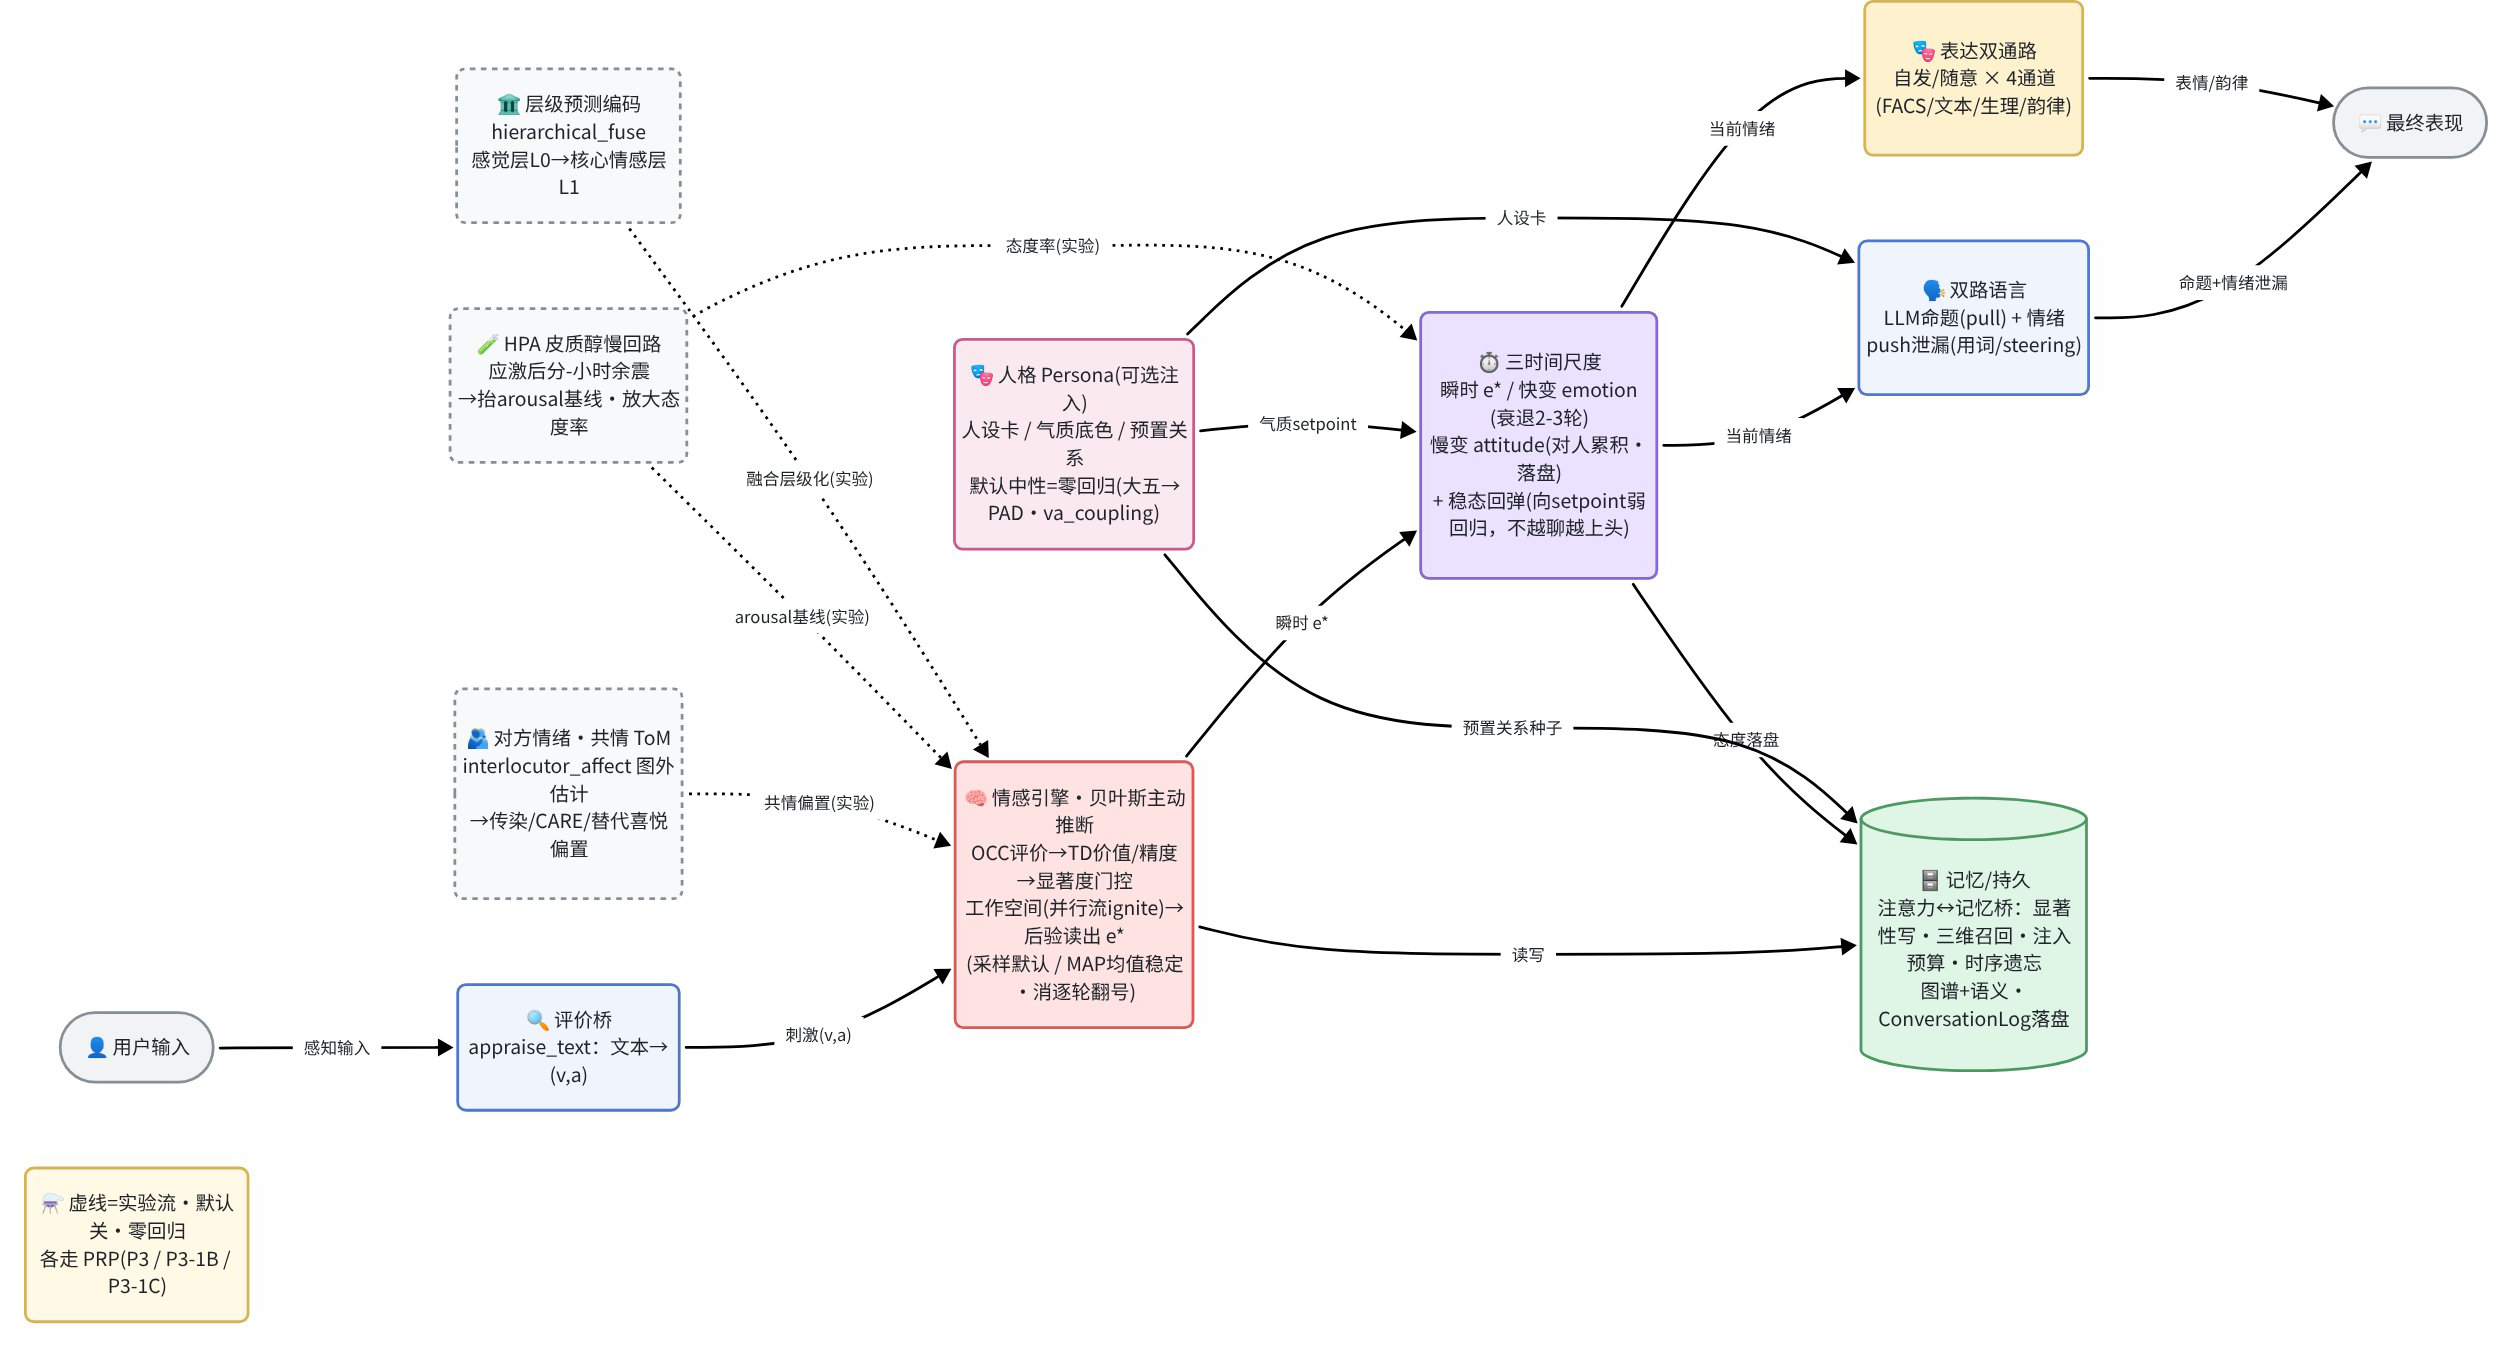
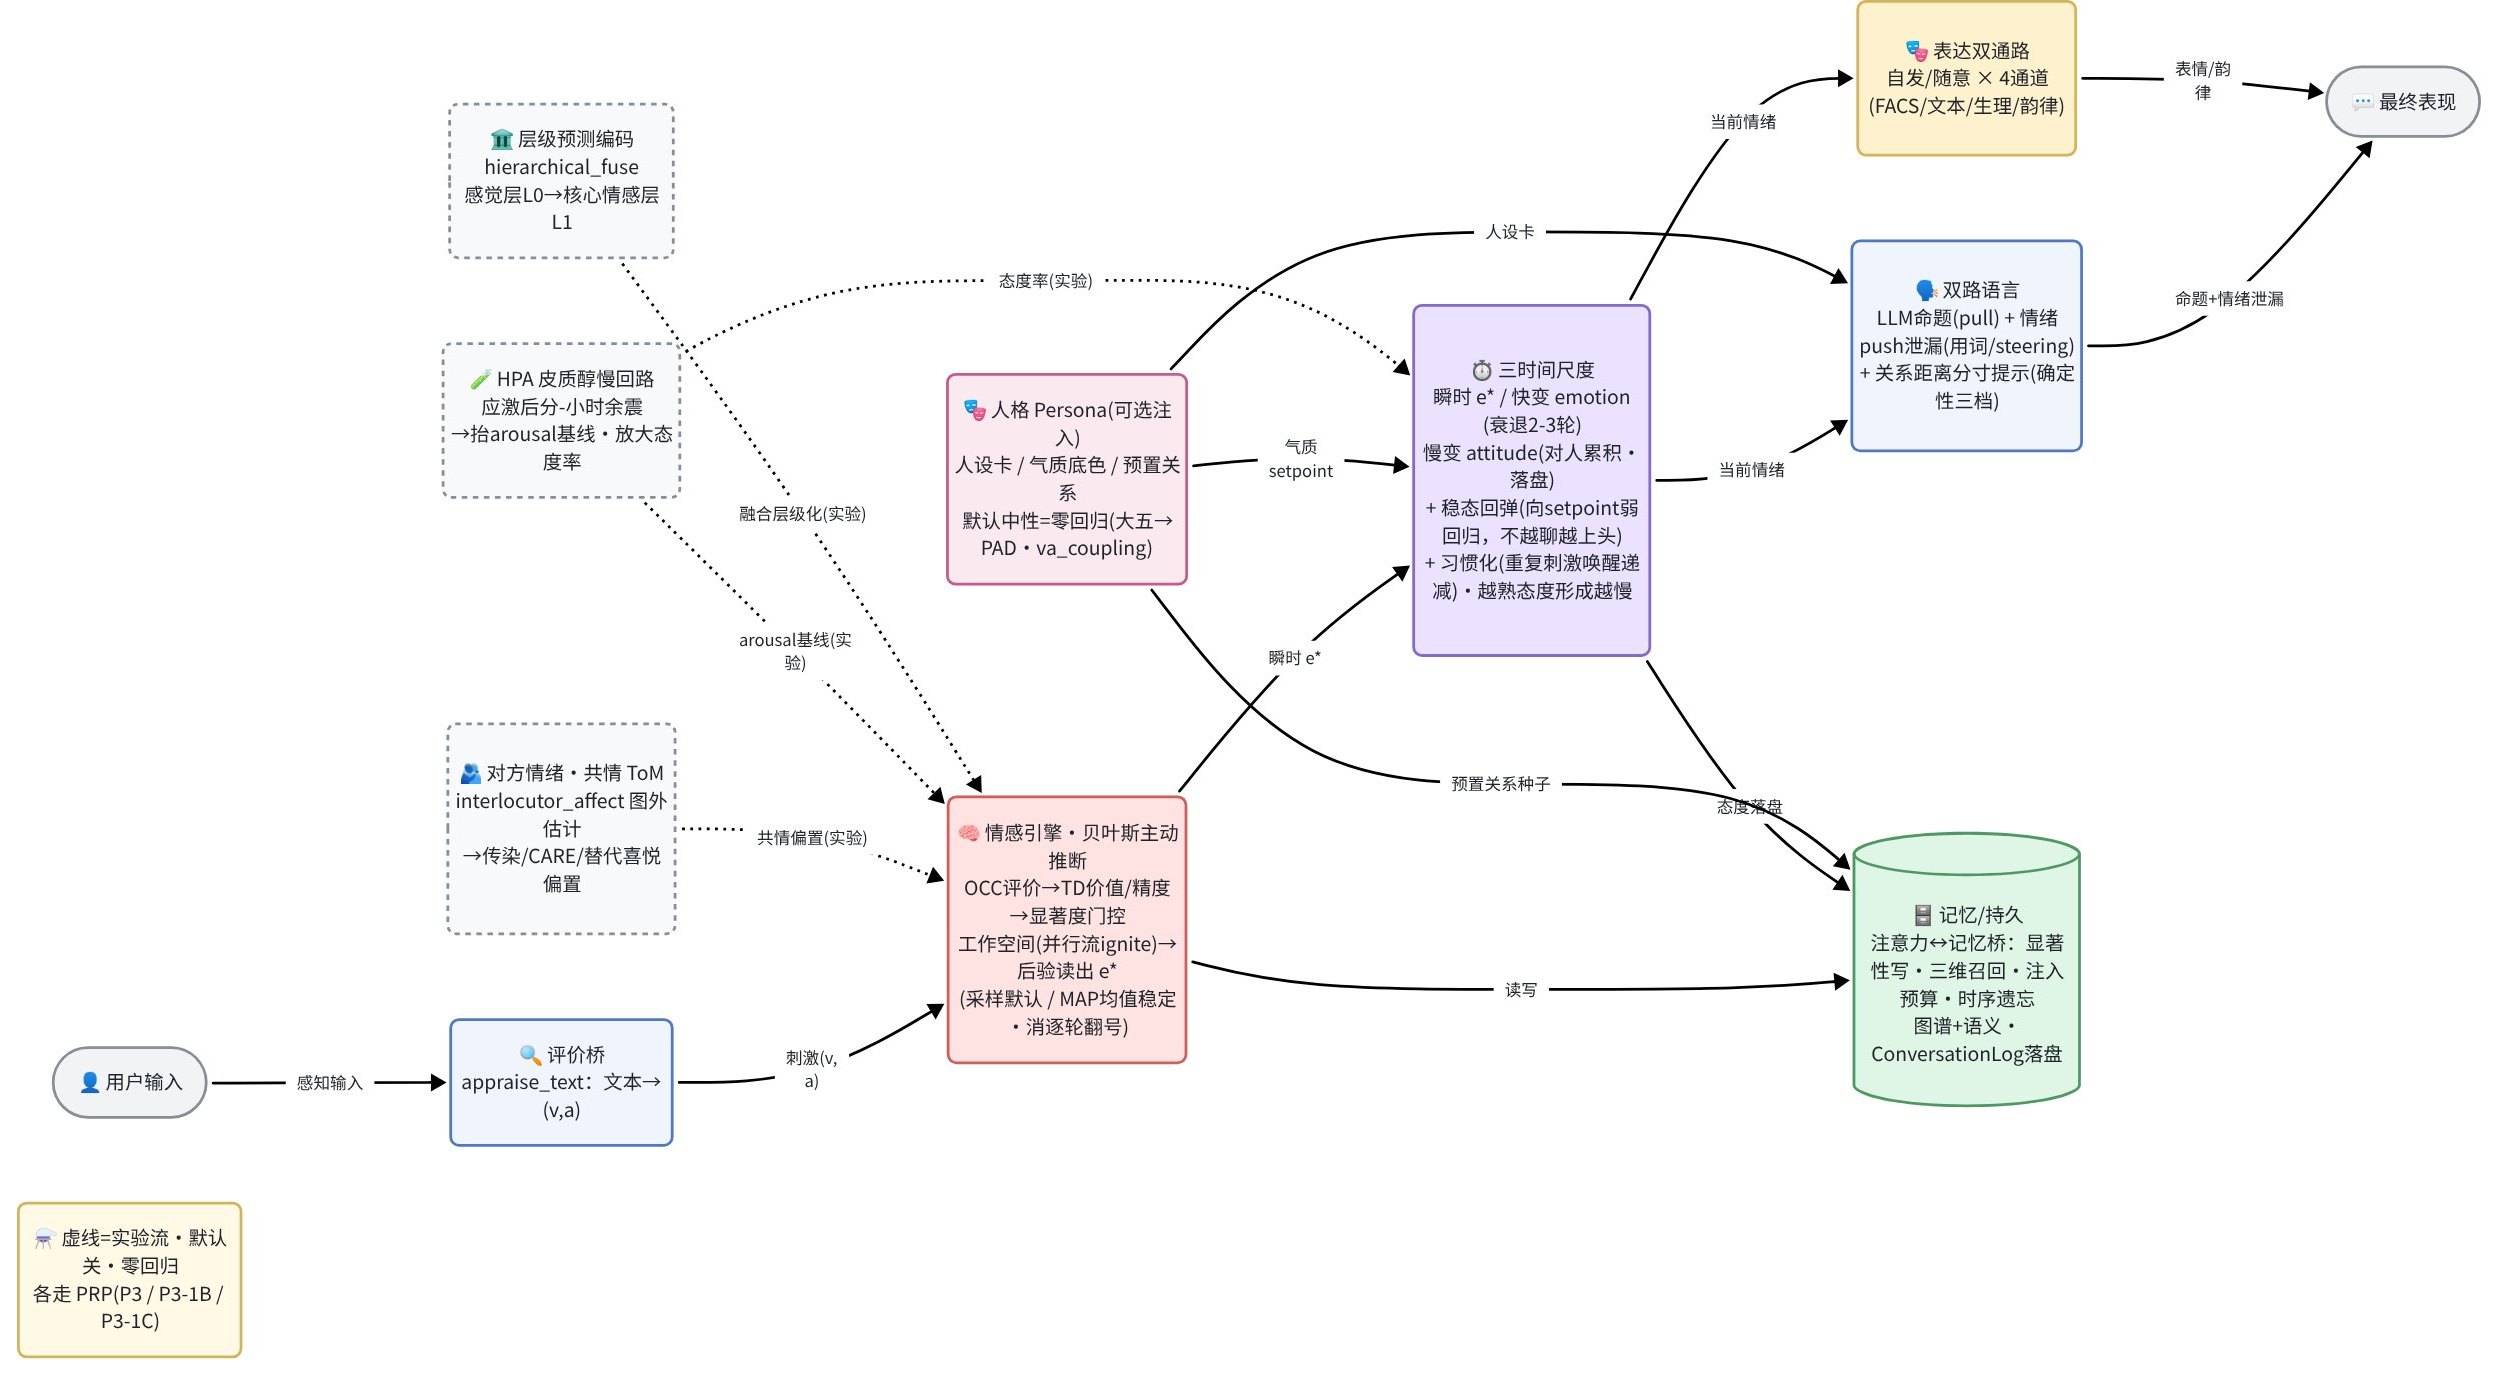
docs(readme+figures): 对外文档全面同步——README 深核 + .env.example 回归注释态 + 架构图集 4→8 张
- .env.example：研究级组(精度/Panksepp/HPA/ToM/HPC 28 变量)回归注释态=默认关零回归，数字人/记忆组保留推荐赋值；补 ZERO_LOG_LEVEL
- README 配置节：读法两类化；「默认」列纠偏(OPENAI_MODEL 必填无默认/EMBED_MODEL 真默认 3-small/GRAPHITI_MODEL 走库默认)；补 --chat 例外块+⑥日志组+verify_graphiti_local；postgres 标注暂未接线；notes/·PRP 对外死链改本地维护标注
- 结构树：补 DATASETS.md/demo_modes/setup_conversation_log/composite·emobank_st/docs 两组图
- 旧图纠偏重渲染：persona 大五→PAD 已落地+va_coupling；memory 情景库遗忘=写入 dedup+容量上限(时序失效仅 disposition)；runtime 补记忆·态度反哺双边+持久标签去 mood；framework 补习惯化·分寸
- 新图 4 张：--chat 数据落点地图/三层架构/工作空间点燃/三时间尺度冲击-响应曲线(tools/plot_timescales.py 用 affect_math 真方程 matplotlib 生成)
- docs/README：v2 表扩至 8 图+画板异步渲染坑警示

diff --git a/tools/plot_timescales.py b/tools/plot_timescales.py
@@ -1,0 +1,100 @@
+"""生成三时间尺度冲击-响应曲线图（docs/v2/timescales-dynamics.png）。
+
+数据不是手绘示意：直接调用 `src.agents.affect_math` 的真方程
+（`attitude_step` / `emotion_decay_step`，全默认参数）逐轮模拟，
+改动力学参数后重跑本脚本即可同步图与实现。
+
+跑：python -m tools.plot_timescales
+依赖：matplotlib（仅本脚本的文档生成用，不在项目依赖里；任意 Python 环境
+`pip install matplotlib` 即可，affect_math 本身纯标准库）。
+"""
+
+from __future__ import annotations
+
+from pathlib import Path
+
+import matplotlib
+
+matplotlib.use("Agg")
+import matplotlib.pyplot as plt
+
+from src.agents.affect_math import attitude_step, emotion_decay_step
+
+OUTPUT = Path("docs/v2/timescales-dynamics.png")
+ROUNDS = 13
+IMPULSE = (-0.8, 0.7)  # 负面刺激 (v, a)
+NEUTRAL = (0.0, 0.0)
+
+COLOR_ESTAR = "#868E96"
+COLOR_EMOTION = "#D25D5A"
+COLOR_ATTITUDE = "#8569CB"
+
+
+def simulate(stimulus_rounds: set[int]) -> tuple[list[float], list[float], list[float]]:
+    """按轮模拟：指定轮次给负面刺激、其余中性，返回 (e*, emotion, attitude) 的效价轨迹。"""
+    estar: list[float] = [0.0]
+    emotion_v: list[float] = [0.0]
+    attitude_v: list[float] = [0.0]
+    emotion = (0.0, 0.0)
+    attitude = (0.0, 0.0)
+    for t in range(1, ROUNDS):
+        stim = IMPULSE if t in stimulus_rounds else NEUTRAL
+        attitude = attitude_step(attitude, stim)
+        emotion = emotion_decay_step(emotion, attitude, stim)
+        estar.append(stim[0])
+        emotion_v.append(emotion[0])
+        attitude_v.append(attitude[0])
+    return estar, emotion_v, attitude_v
+
+
+def plot_panel(ax: plt.Axes, stimulus_rounds: set[int], title: str) -> None:
+    estar, emotion_v, attitude_v = simulate(stimulus_rounds)
+    x = range(ROUNDS)
+    ax.plot(
+        x, estar, color=COLOR_ESTAR, lw=1.2, ls=":", marker="o", ms=3, label="瞬时 e*（当轮冲击）"
+    )
+    ax.plot(
+        x,
+        emotion_v,
+        color=COLOR_EMOTION,
+        lw=2.2,
+        marker="o",
+        ms=3.5,
+        label="快变 emotion（数轮衰退）",
+    )
+    ax.plot(
+        x,
+        attitude_v,
+        color=COLOR_ATTITUDE,
+        lw=2.2,
+        marker="s",
+        ms=3.5,
+        label="慢变 attitude（缓慢沉淀·回弹）",
+    )
+    ax.axhline(0.0, color="#CED4DA", lw=0.8, zorder=0)
+    ax.set_title(title, fontsize=11)
+    ax.set_xlabel("轮次")
+    ax.set_ylim(-1.05, 0.15)
+    ax.set_xticks(list(x))
+    ax.grid(alpha=0.25, lw=0.5)
+    for spine in ("top", "right"):
+        ax.spines[spine].set_visible(False)
+
+
+def main() -> None:
+    plt.rcParams["font.sans-serif"] = ["Microsoft YaHei", "SimHei", "Noto Sans CJK SC"]
+    plt.rcParams["axes.unicode_minus"] = False
+    fig, (ax1, ax2) = plt.subplots(1, 2, figsize=(11.5, 4.0), sharey=True)
+    plot_panel(ax1, {1}, "单次负面冲击：情绪激起又退去，态度几乎不动（不记恨）")
+    plot_panel(ax2, set(range(1, 7)), "反复负面刺激(第1-6轮)：态度才逐步沉淀，停止后缓慢回弹")
+    ax1.set_ylabel("效价 v")
+    ax1.legend(loc="lower right", fontsize=9, framealpha=0.9)
+    fig.suptitle("三时间尺度冲击-响应（affect_math 真方程轨迹·默认参数）", fontsize=12)
+    fig.tight_layout()
+    OUTPUT.parent.mkdir(parents=True, exist_ok=True)
+    fig.savefig(OUTPUT, dpi=160, bbox_inches="tight", facecolor="white")
+    print(f"written {OUTPUT}")
+
+
+if __name__ == "__main__":
+    main()

diff --git a/docs/README.md b/docs/README.md
@@ -1,6 +1,6 @@
 # docs/ — 框架图（v1 旧版存档 / v2 当前）
 
-- **`v2/`** — **现阶段（2026-06-30，含阶段 25–27：注意力↔记忆桥 · 情绪稳态回弹 · 人格注入；framework-current 图 2026-07-03 补阶段 33 follow-up 三实验流）权威架构图**。README 内嵌的就是这套。每张图有 `.mmd`（Mermaid 源，**当前 PNG 由它经飞书画板渲染**）+ `.json`（whiteboard-cli DSL，富样式备选）+ `.png`（渲染图）。
+- **`v2/`** — **现阶段权威架构图**（2026-07-03 全套同步阶段 33 落地：大五→PAD 落地上图 / 记忆遗忘语义纠偏 / 记忆·态度反哺边 / 习惯化·分寸；并新增 3 张架构图 + 1 张动力学曲线）。README 内嵌的就是这套。架构图有 `.mmd`（Mermaid 源，**当前 PNG 由它经飞书画板渲染**）+ `.png`（渲染图）；旧四图另有 `.json`（whiteboard-cli DSL，富样式备选，**内容停在 2026-06-30、待同步**）。
 - **`v1/`** — 上一版存档（2026-06-25，阶段 13–24）：仅 `framework-current` / `runtime-flow` 两张的 `.json` + `.png`（whiteboard-cli DSL 渲染）。保留供对照，不再内嵌、不再维护。
 
 ## v2 文件
@@ -8,15 +8,19 @@
 | 图 | 源 | 说明 |
 | --- | --- | --- |
 | `framework-current` | `.mmd` / `.json` / `.png` | **情绪引擎框架图**（总览）：评价桥 → 引擎 → 三时间尺度(含稳态回弹) → 双路语言 + 表达双通路 → 表现；记忆桥与人格注入旁挂；**+ 阶段 33 follow-up 三条实验流虚线旁挂（默认关·各走 PRP）：🫂 ToM 共情 / 🧪 HPA 皮质醇慢回路 / 🏛 层级预测编码**（`.mmd`/`.png` 已更新；`.json` 富样式备选待下次同步） |
-| `runtime-flow` | `.mmd` / `.json` / `.png` | **项目运作流程图（LLM ⊗ 情感引擎）**：一轮对话怎么走，标注 LLM 接点 / 确定性引擎 / 跨轮持久 / 人格接点 |
-| `memory-architecture` | `.mmd` / `.json` / `.png` | **记忆架构图（注意力↔记忆桥）**：显著性门控写 → 情景库(时序失效/容量遗忘) → 三维召回重排 → 注入注意力预算；disposition 偏置评价 |
-| `persona-injection` | `.mmd` / `.json` / `.png` | **人格注入图**：Persona 三层（L1 人设卡→语言 / L2 气质底色→引擎 / L3 预置关系→记忆），默认中性零回归 |
+| `runtime-flow` | `.mmd` / `.json` / `.png` | **项目运作流程图（LLM ⊗ 情感引擎）**：一轮对话怎么走，标注 LLM 接点 / 确定性引擎 / 跨轮持久(emotion 会话内·attitude 落盘) / 人格接点 / 记忆·态度反哺评价先验两条回边 |
+| `memory-architecture` | `.mmd` / `.json` / `.png` | **记忆架构图（注意力↔记忆桥）**：显著性门控写(含写入 dedup) → 情景库(容量遗忘·语义侧信道) → 三维召回重排 → 注入注意力预算；disposition 确定性图谱·时序失效·偏置评价 |
+| `persona-injection` | `.mmd` / `.json` / `.png` | **人格注入图**：Persona 三层（L1 人设卡→语言 / L2 气质底色·大五→PAD·va_coupling→引擎 / L3 预置关系→记忆），默认中性零回归 |
+| `chat-persistence-map` | `.mmd` / `.png` | **--chat 数据落点地图**：一轮对话的数据各落哪个存储（对话运行态 / Checkpointer / 确定性图谱 / 语义侧信道 / 日志）、归哪个 env 变量管、chat 默认值 |
+| `layered-architecture` | `.mmd` / `.png` | **三层架构图**：编排 → 记忆 → 存储只能向下依赖，observability 横切 |
+| `workspace-ignition` | `.mmd` / `.png` | **工作空间点燃图**：五条并行流 (μ,π) → 显著网络打分 → 过阈点燃广播 → 精度加权融合 → 后验读出 e* |
+| `timescales-dynamics` | `tools/plot_timescales.py` / `.png` | **三时间尺度冲击-响应曲线**：单次冲击 vs 反复刺激双面板，`affect_math` 真方程轨迹（matplotlib 生成，改动力学参数后重跑脚本即同步） |
 
 ## 结构（情绪引擎框架图 · 左→右流水线）
 
 ```text
 👤 用户输入 → 🔍 评价桥(文本→v,a) → 🧠 情感引擎(贝叶斯主动推断：OCC评价·TD价值/精度·显著度门控工作空间·后验采样 e*)
-            → ⏱ 三时间尺度(瞬时 e* / 快变 emotion / 慢变 attitude) + 稳态回弹(向 setpoint 弱回归)
+            → ⏱ 三时间尺度(瞬时 e* / 快变 emotion / 慢变 attitude) + 稳态回弹(向 setpoint 弱回归)·习惯化
             → 🗣 双路语言(LLM 命题 pull + 情绪 push 泄漏) ┐
             → 🎭 表达双通路(自发/随意 × 4 通道)            ┴→ 💬 最终表现
 🎭 人格 Persona(可选) → 人设卡进语言 · 气质 setpoint 进时间尺度 · 预置关系进记忆
@@ -24,7 +28,7 @@
 ⚗ 实验流(虚线·默认关·零回归·各走 PRP)：🫂 ToM 对方情绪→共情偏置进引擎 · 🧪 HPA 皮质醇→抬 arousal 基线/放大态度率 · 🏛 层级预测编码→引擎融合层级化
 ```
 
-详解见 `PROGRESS.md` 阶段 13–27 与对应 `notes/2026-06-2*-*`（工作空间 · 记忆桥 · 情绪稳态 · 人格接口）。
+详解见 `PROGRESS.md` 阶段 13–27 与对应 `notes/2026-06-2*-*`（工作空间 · 记忆桥 · 情绪稳态 · 人格接口；两者均本地维护、不随仓库分发）。
 
 ## 重新渲染（v2）
 
@@ -34,6 +38,10 @@
 2. 灌入 Mermaid：`lark-cli whiteboard +update --whiteboard-token <token> --input_format mermaid --source @docs/v2/<图>.mmd --overwrite --as user`
 3. 导出图片：`lark-cli whiteboard +query --whiteboard-token <token> --output_as image --output docs/v2/<图>.png --overwrite --as user`
 4. 裁白边（飞书导出画布偏大）：用任意图像库按内容包围盒 trim（如 Pillow `ImageChops.difference` + `getbbox`）。
+
+> ⚠ 画板 `+update` 是**异步**的：`+query` 立刻导出会拿到旧画布。批量渲染时导出后比对文件哈希、变化了才收图（轮询 5s×N），否则多张图会撞成同一张。
+>
+> `timescales-dynamics.png` 不走画板：`python -m tools.plot_timescales`（需任意环境装 matplotlib）直接由 `affect_math` 真方程生成。
 
 **备选（富样式 whiteboard-cli DSL，需本地 Node）**：
 
